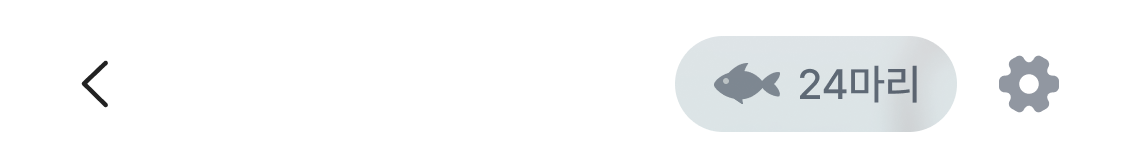
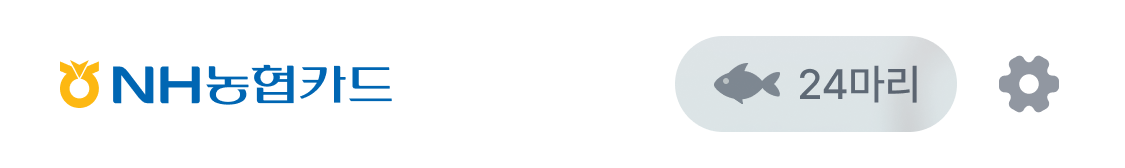
c 이벤트 수정

Changed region(s): [[0.0311, 0.3571, 0.3733, 0.6548]]

diff --git a/c-event.html b/c-event.html
@@ -17,7 +17,7 @@
         .event_wrap{position: fixed;top: 50%;left: 50%;transform: translate(-50%, -50%);width: 376px;height: 812px;background: black;color: #fff;overflow: hidden; border-radius: 32px;}
         .event_wrap .cont{position: relative; width: 100%; height: 100%; background: #fff;}
         .event_wrap .cont .header{position: absolute;top: 0;left: 0;z-index: 100;}
-        .event_wrap .cont .header a{position: absolute;top: 57px;left: 18px;z-index: 100;width: 30px;height: 30px;}
+        .event_wrap .cont .header a{position: absolute;top: 57px;left: 18px;z-index: 100;width: 120px;height: 30px;}
         .event_wrap .cont .bg{width: 100%; height: 100%; position: absolute; transition: all 2s; overflow: hidden;}
         .event_wrap .cont .box{position: absolute; bottom: 48px; left: 0; padding: 0 20px; z-index: 100;}
         .event_wrap .cont .box button {position: absolute;bottom: -2px;left: 0;width: 100%;height: 60px;z-index: 100;}
